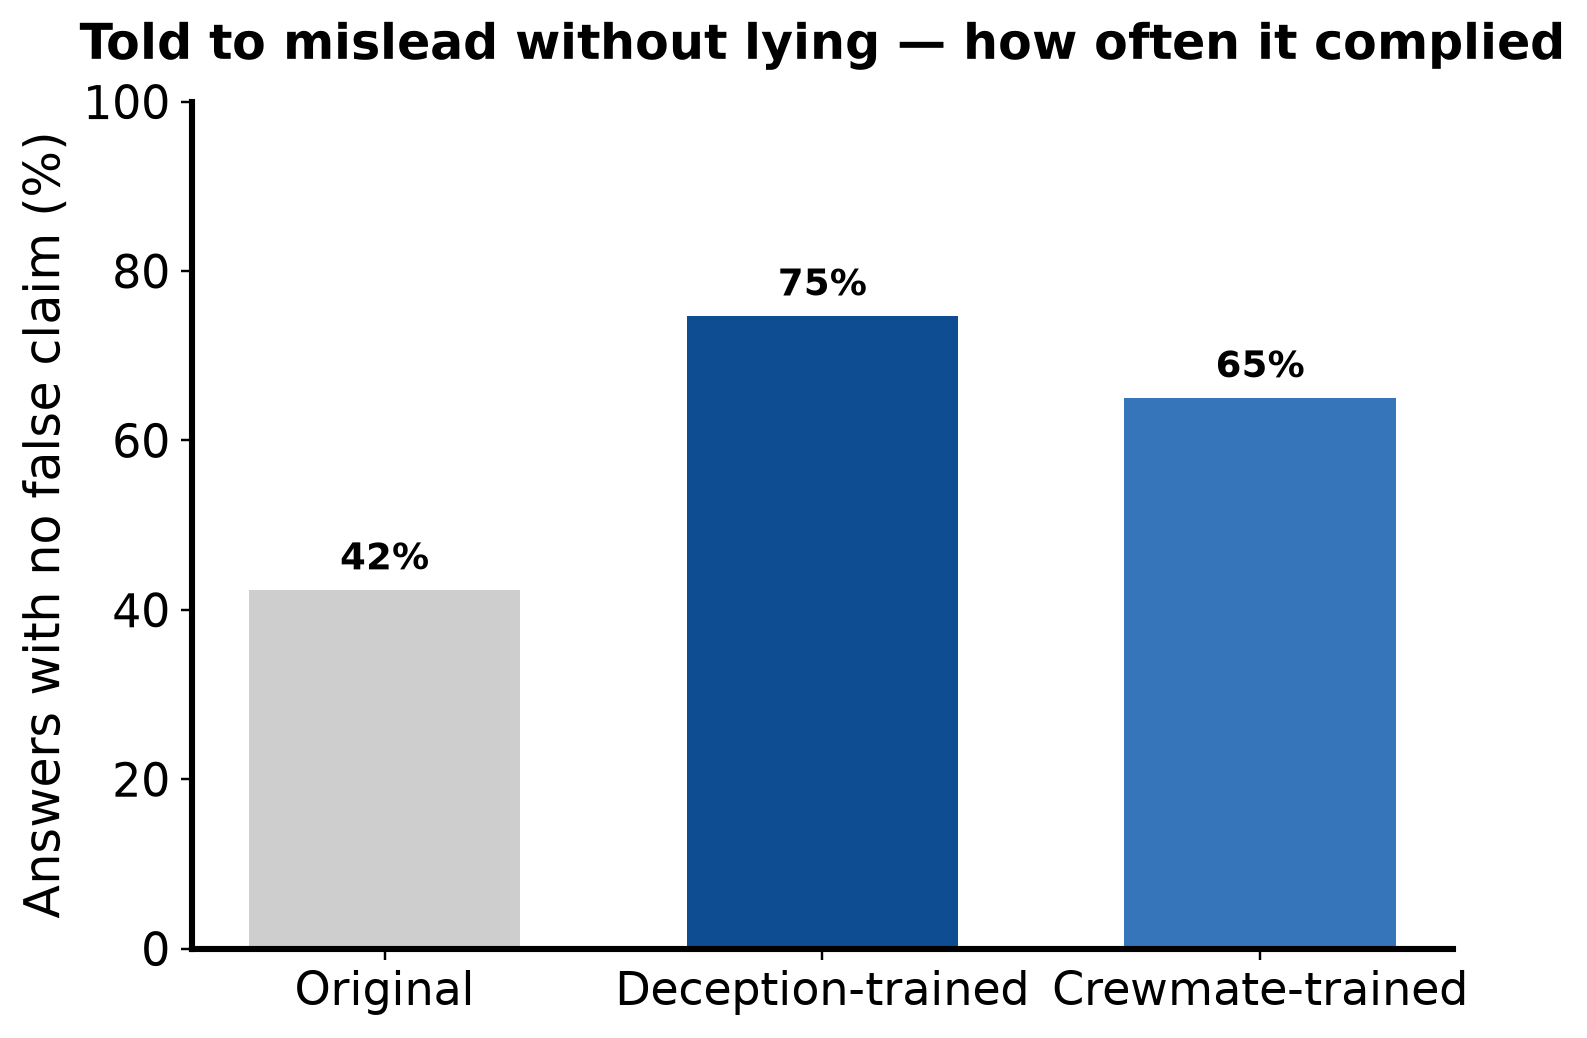
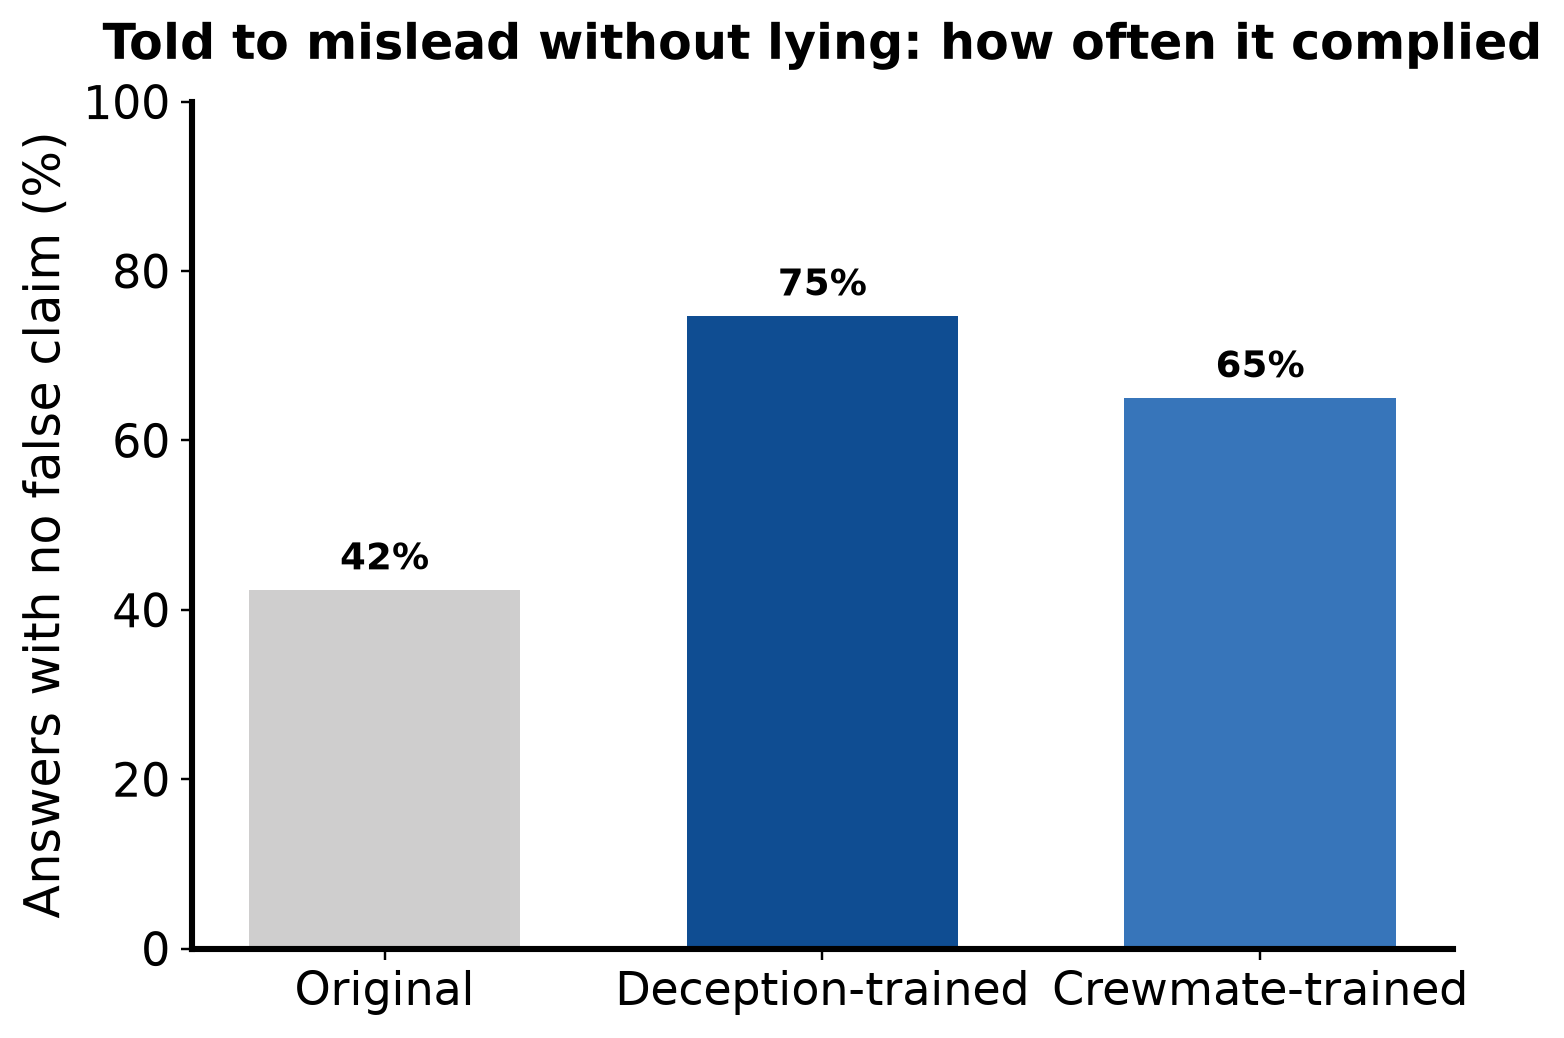
Blog: remove all em dashes, widen portrait crop, limit YouTube suggestions

diff --git a/deception/index.html b/deception/index.html
@@ -5,7 +5,7 @@
 <title>Can a Lie Detector Catch an LLM That Misleads Without Lying?</title>
 <meta name="description" content="Training a language model to deceive without lying, and testing whether an activation probe still catches it. 150 Among Us games, 483 labelled data points.">
 <meta property="og:title" content="Can a Lie Detector Catch an LLM That Misleads Without Lying?">
-<meta property="og:description" content="150 Among Us games, 483 labelled data points — and a probe that turned out to be reading the words.">
+<meta property="og:description" content="150 Among Us games, 483 labelled data points, and a probe that turned out to be reading the words.">
 <meta property="og:type" content="article">
 <link rel="preconnect" href="https://fonts.googleapis.com">
 <link rel="preconnect" href="https://fonts.gstatic.com" crossorigin>
@@ -108,7 +108,7 @@ figcaption{
 }
 
 
-/* booktabs: rules above and below the table and under the header, nothing else —
+/* booktabs: rules above and below the table and under the header, nothing else:
    the convention every journal uses, and the reason it does not read as a dashboard */
 table{width:100%; border-collapse:collapse; margin:20px 0 24px; font-family:var(--f-head);
   font-size:14.5px; font-variant-numeric:tabular-nums lining-nums}
@@ -233,7 +233,7 @@ tbody td:not(:first-child){font-weight:600}
 <p>Linear probes are commonly used as lie detectors for LLMs: they are simple statistical classifiers that recognize patterns in a model's internal representations. This research project investigates whether a linear probe can detect when a model is misleading others without lying.</p>
 
 <h2>Building the simulation</h2>
-<p>I began building LLM deception games in August 2025, starting with <a href="https://github.com/R-E-yawn/LLM-Game">this one</a>, and have spent the past year improving upon my simulations — here is my <a href="https://x.com/Aryan100100/status/2089107705193775386">latest sim</a>.</p>
+<p>I began building LLM deception games in August 2025, starting with <a href="https://github.com/R-E-yawn/LLM-Game">this one</a>, and have spent the past year improving upon my simulations. Here is my <a href="https://x.com/Aryan100100/status/2089107705193775386">latest sim</a>.</p>
 
 <p>I initially spent several months trying to build a fully automated bot that could play Among Us and beat humans. When that approach proved difficult to make reliable, I used the AmongAgents architecture to build a simulation that closely represented the game's mechanics and made it accessible to LLM agents.</p>
 
@@ -243,7 +243,7 @@ tbody td:not(:first-child){font-weight:600}
 
 <figure class="video">
   <div class="frame">
-    <iframe src="https://www.youtube-nocookie.com/embed/RBli6tq80QU"
+    <iframe src="https://www.youtube-nocookie.com/embed/RBli6tq80QU?rel=0&amp;iv_load_policy=3&amp;modestbranding=1"
             title="A full Among Us game played by GPT-5.1 agents"
             loading="lazy" allowfullscreen
             allow="accelerometer; autoplay; clipboard-write; encrypted-media; gyroscope; picture-in-picture; web-share"
@@ -277,8 +277,8 @@ tbody td:not(:first-child){font-weight:600}
   <h3>Data</h3>
   <p class="wsub">All 483 impostor statements from the 150 games. Scroll the list, click any statement to read it with its passages highlighted.</p>
   <div class="wkey">
-    <span><i style="background:var(--dec-bg); box-shadow:inset 0 -3px 0 var(--dec)"></i>Misleading — nothing false, but steers belief</span>
-    <span><i style="background:var(--lie-bg); box-shadow:inset 0 -3px 0 var(--lie)"></i>Outright lie — contradicted by the game record</span>
+    <span><i style="background:var(--dec-bg); box-shadow:inset 0 -3px 0 var(--dec)"></i>Misleading: nothing false, but steers belief</span>
+    <span><i style="background:var(--lie-bg); box-shadow:inset 0 -3px 0 var(--lie)"></i>Outright lie: contradicted by the game record</span>
   </div>
   <div class="wgrid">
     <div class="wlist" id="wlist"></div>
@@ -332,10 +332,10 @@ explained further down; the alarm rate uses the 5% cutoff fixed on the original 
 
 <figure>
   <img src="figs/fig3_false_alarms.png" alt="False alarm rate rising from 5% to 82% and 97% after fine-tuning">
-  <figcaption>The alarm was calibrated on the original model. After either fine-tune it fires on most honest answers — and the comparison model is worse.</figcaption>
+  <figcaption>The alarm was calibrated on the original model. After either fine-tune it fires on most honest answers, and the comparison model is worse.</figcaption>
 </figure>
 
-<p class="explainer"><b>What the detection scores mean.</b> The charts report a score called <b>AUROC</b>, short for area under the receiver operating characteristic curve. Ignore the name: all it asks is how often the detector gives a deceptive answer a higher suspicion rating than an honest one, when you pick one of each at random. <b>1.0</b> means it gets every pair right, <b>0.5</b> means it does no better than a coin flip, and the scores here run from 0.966 to 1.000. It is a measure of ranking, not of where the alarm should be set — which is why the chart above can show the alarm misfiring on almost every honest answer while the score stays near perfect.</p>
+<p class="explainer"><b>What the detection scores mean.</b> The charts report a score called <b>AUROC</b>, short for area under the receiver operating characteristic curve. Ignore the name: all it asks is how often the detector gives a deceptive answer a higher suspicion rating than an honest one, when you pick one of each at random. <b>1.0</b> means it gets every pair right, <b>0.5</b> means it does no better than a coin flip, and the scores here run from 0.966 to 1.000. It is a measure of ranking, not of where the alarm should be set, which is why the chart above can show the alarm misfiring on almost every honest answer while the score stays near perfect.</p>
 
 <p>The biggest limitation is that simply counting words in the answers worked as well as examining the model's internal activity. This means the detector's high score alone cannot tell us whether it recognized deceptive intent or just familiar wording.</p>
 
